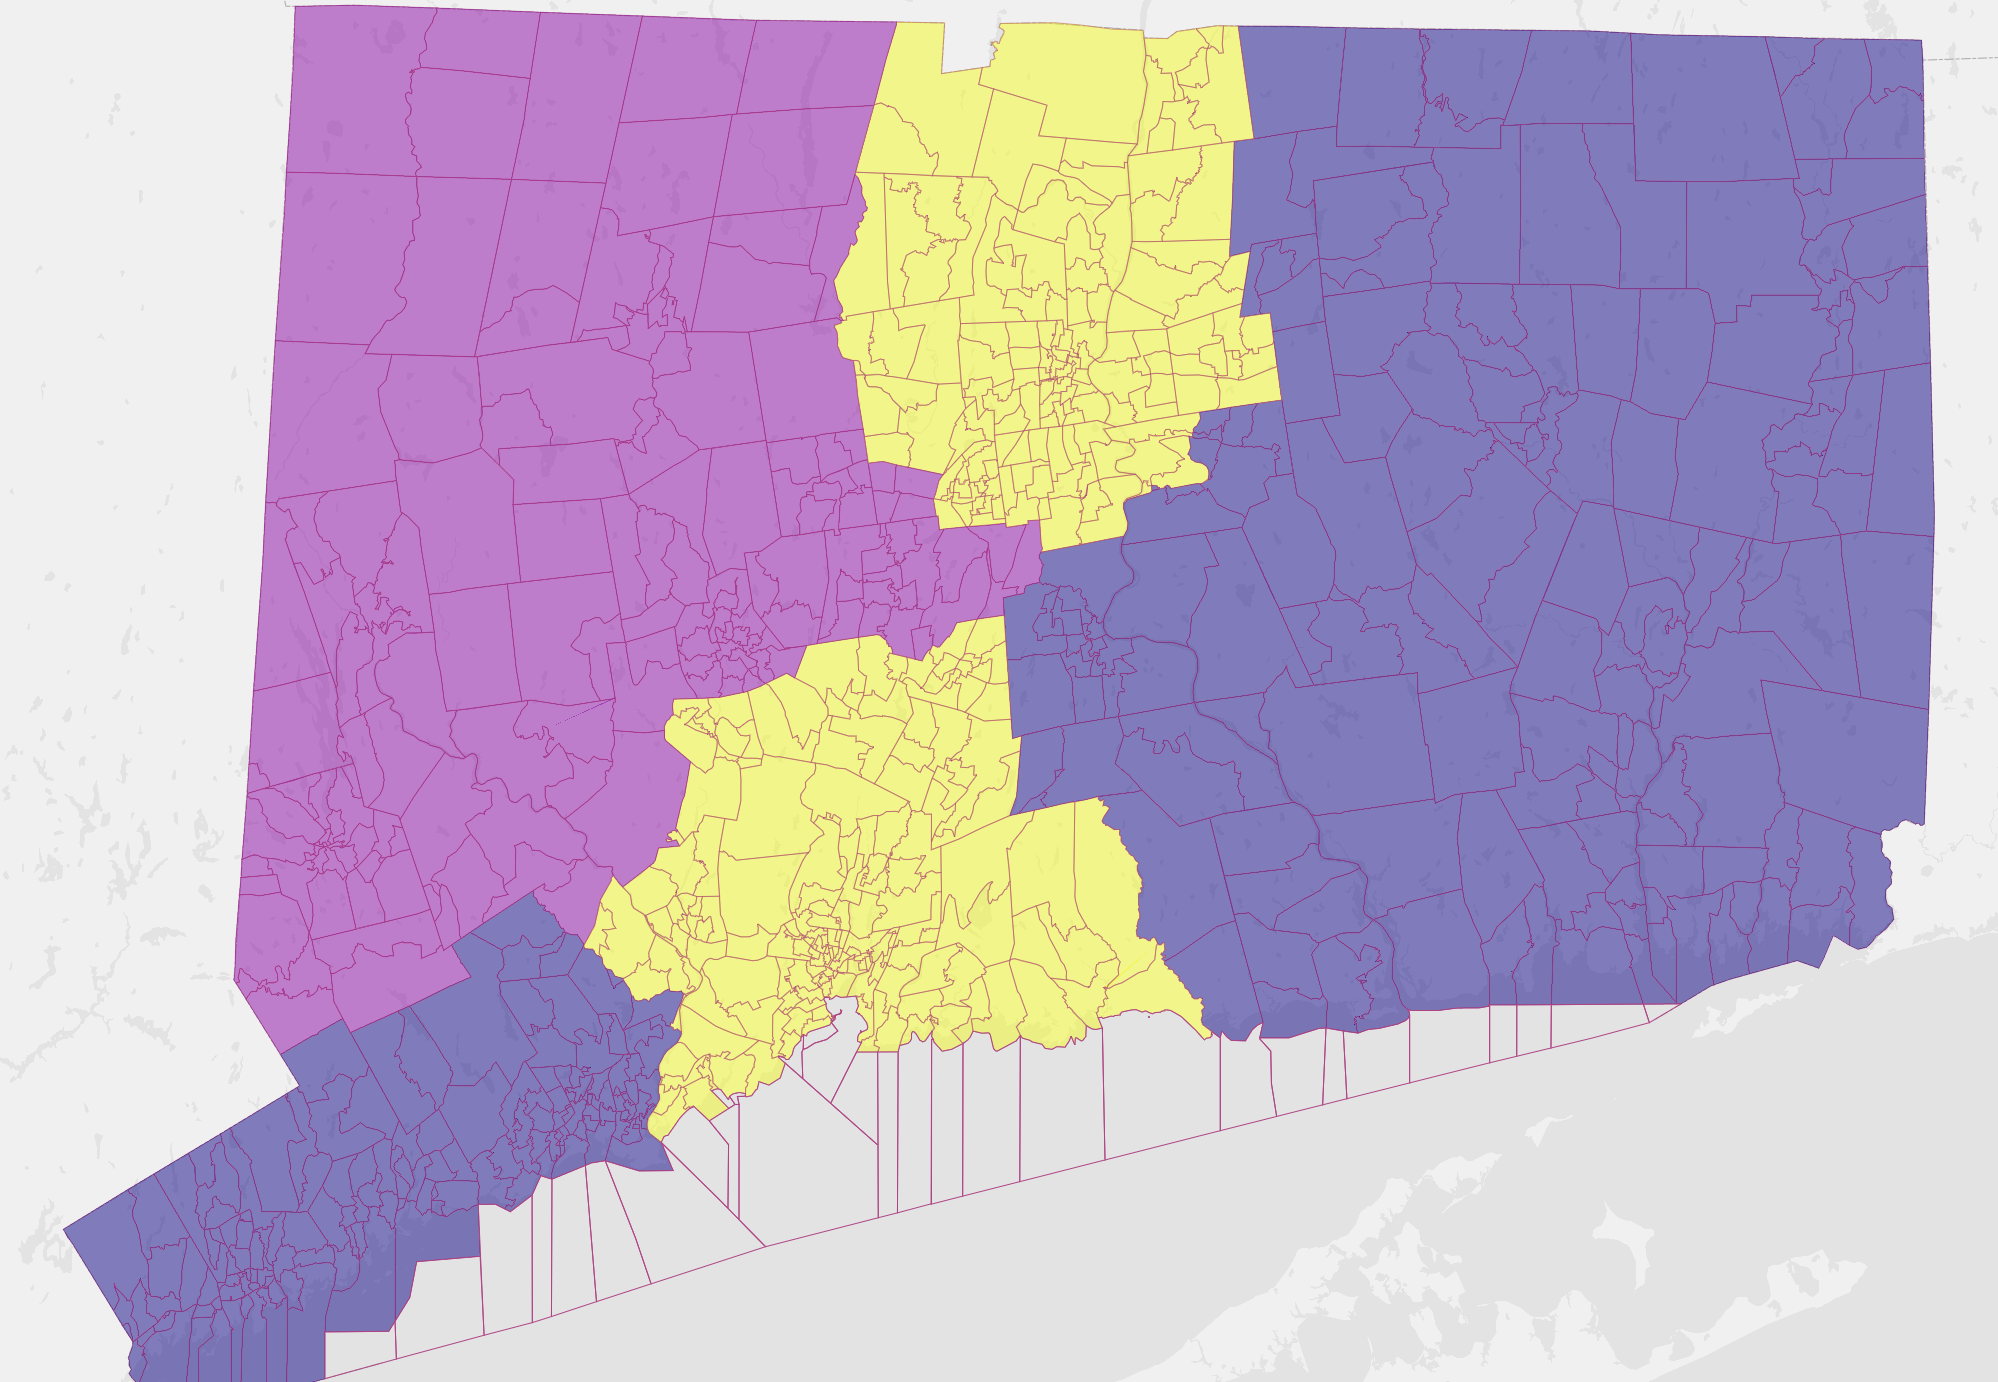
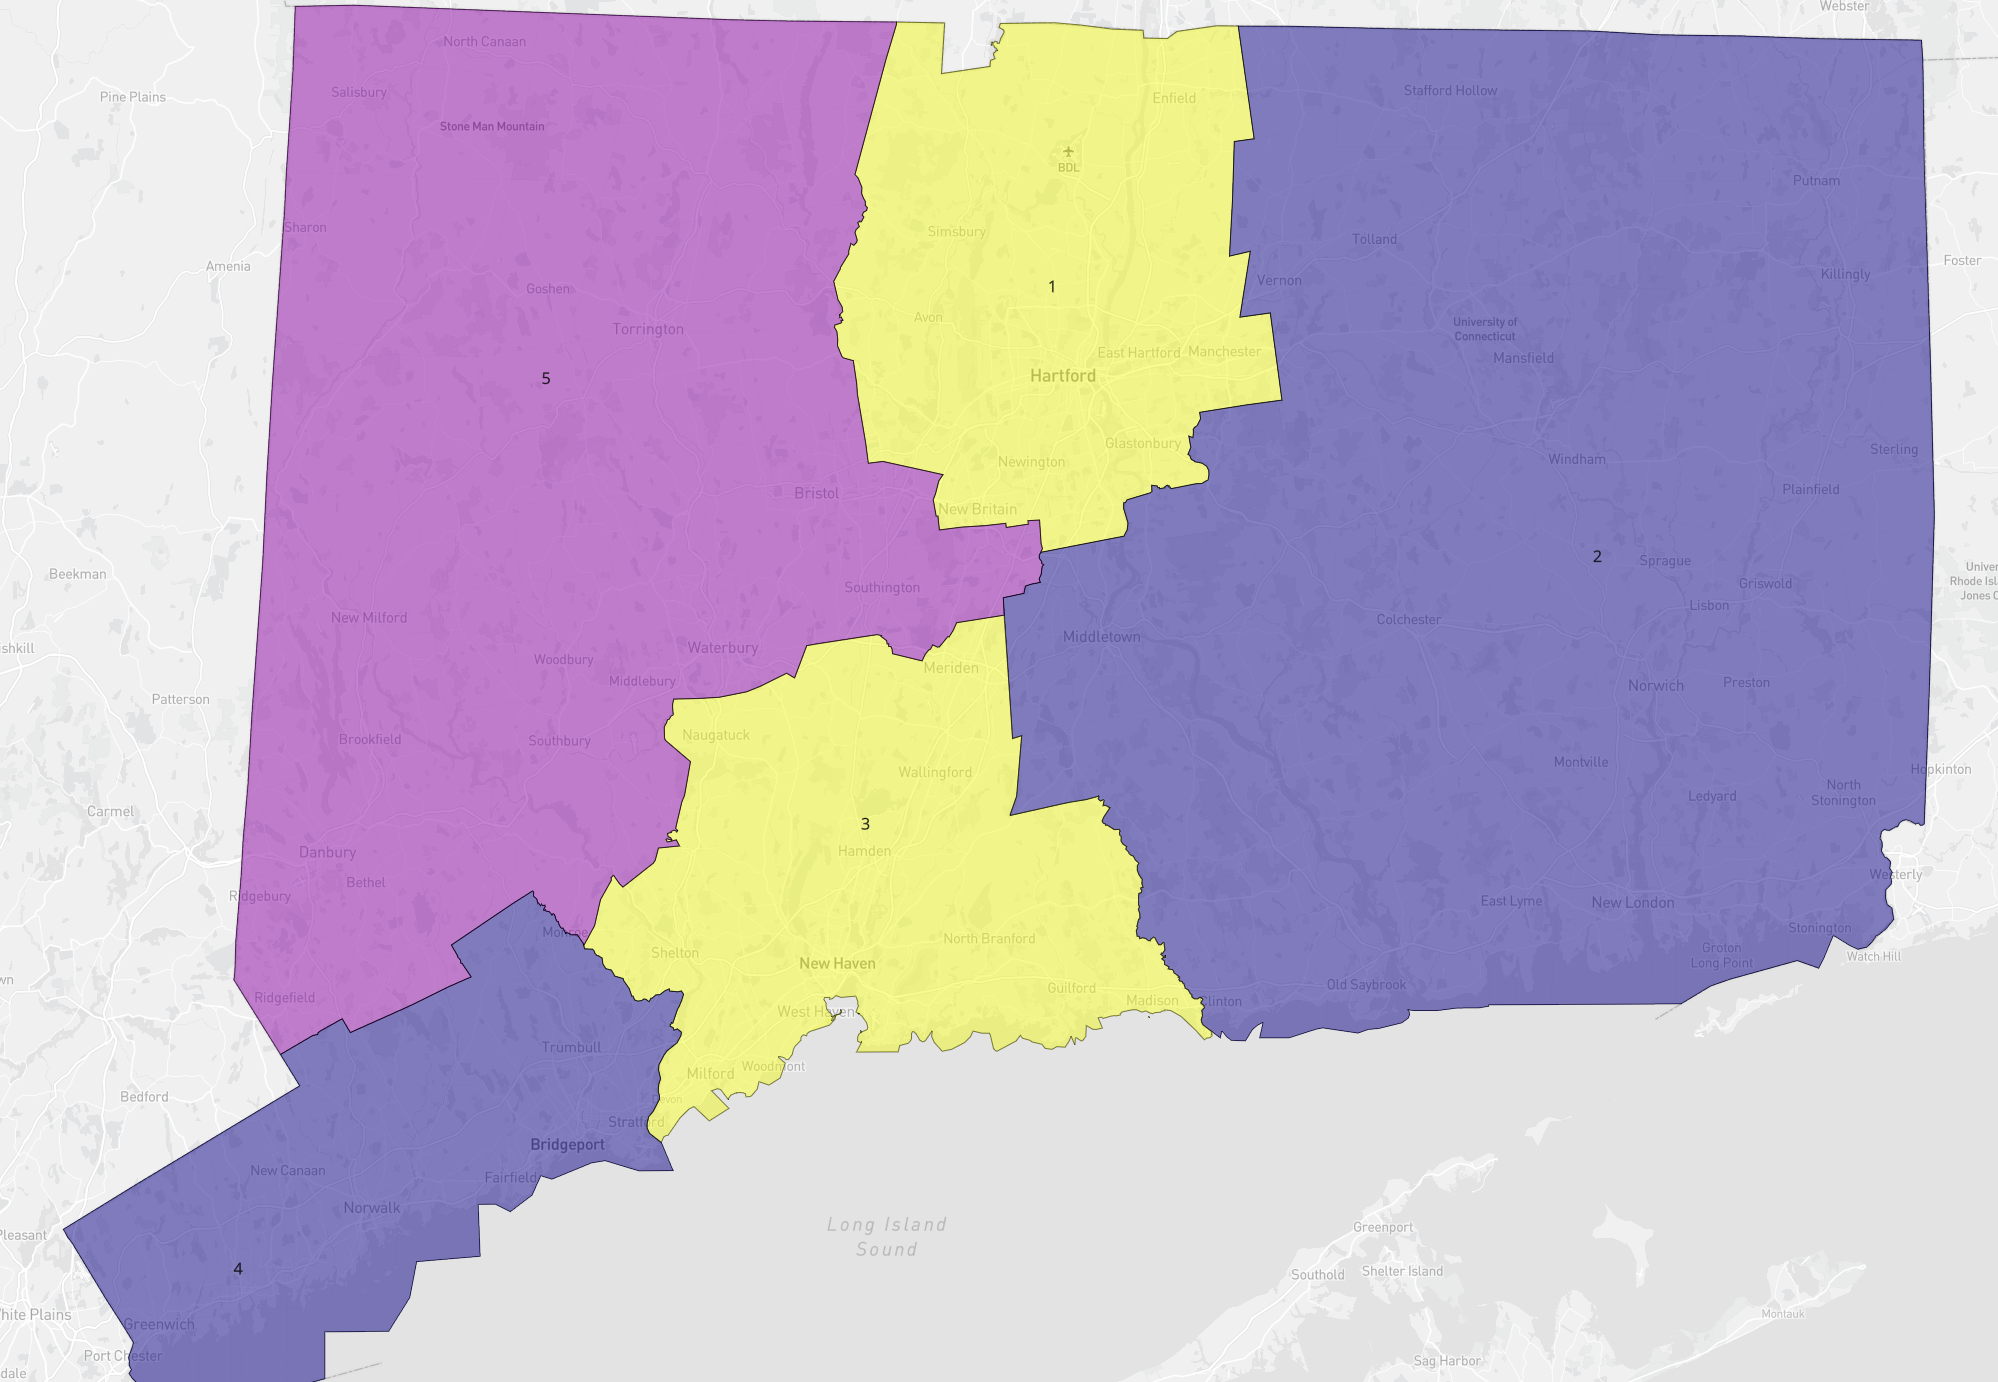
Fixed bad screenshots

diff --git a/scripts/ONETIME/fix_screenshots.py b/scripts/ONETIME/fix_screenshots.py
@@ -1,10 +1,10 @@
 #!/usr/bin/env python3
 """
-Run a batch of commands.
+Retake some screenshots that were bad.
 
 For example:
 
-$ scripts/run_batch.py
+$ scripts/fix_screenshots.py
 
 """
 
